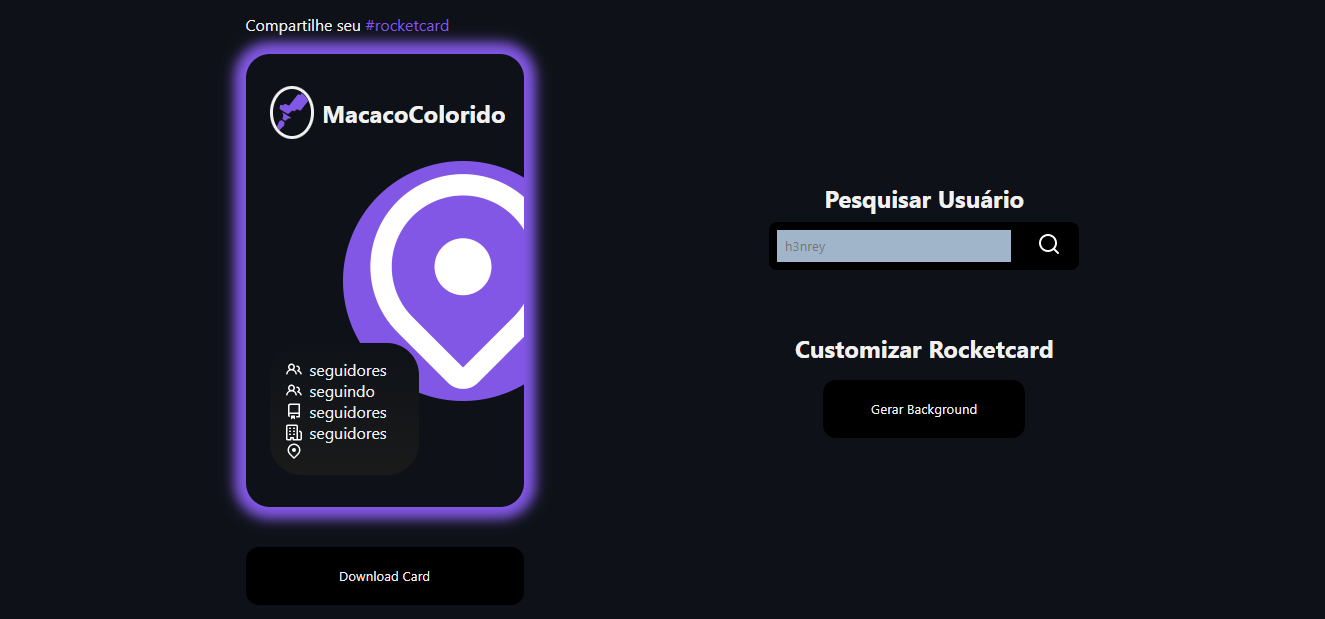
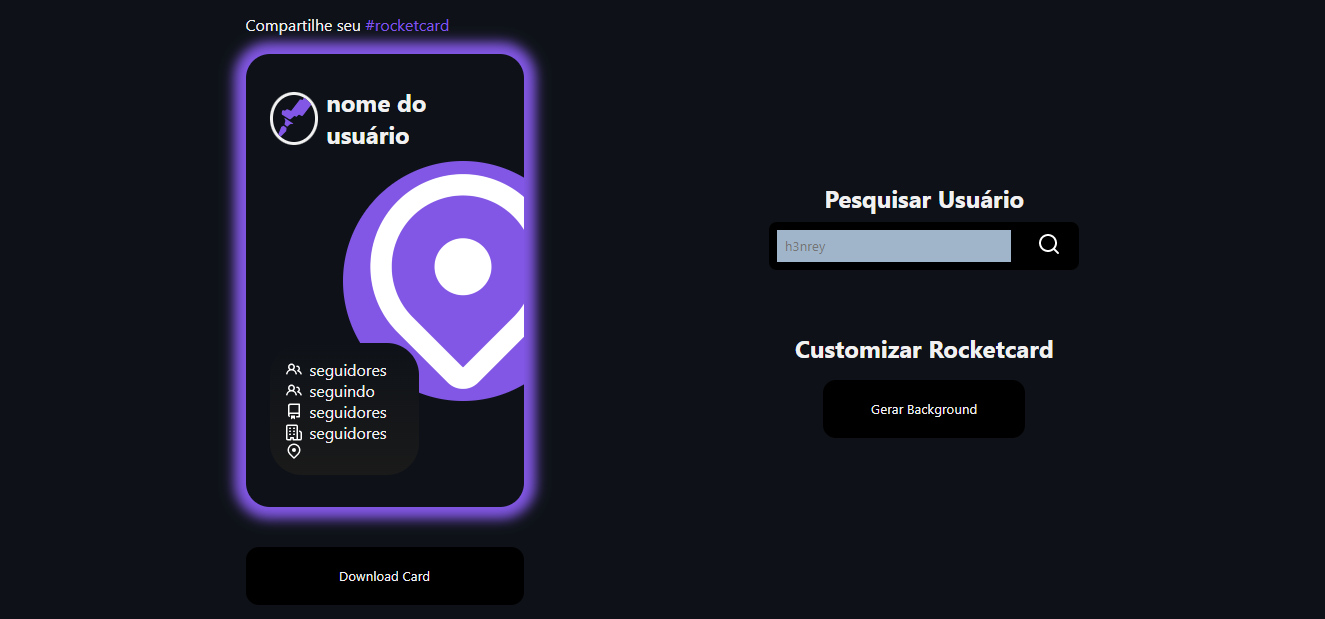
update some details

Changed region(s): [[0.1857, 0.1228, 0.4023, 0.2456]]

diff --git a/index.html b/index.html
@@ -15,7 +15,7 @@
             <div id="card">
                 <div id="brand-container">
                     <img src="assets/assets/logo.svg" alt="" class="brand-logo">
-                    <h2 id="username">MacacoColorido</h2>
+                    <h2 id="username">nome do usuário</h2>
                </div>
                 <div id="more-information">
                     <div class="information-container">
